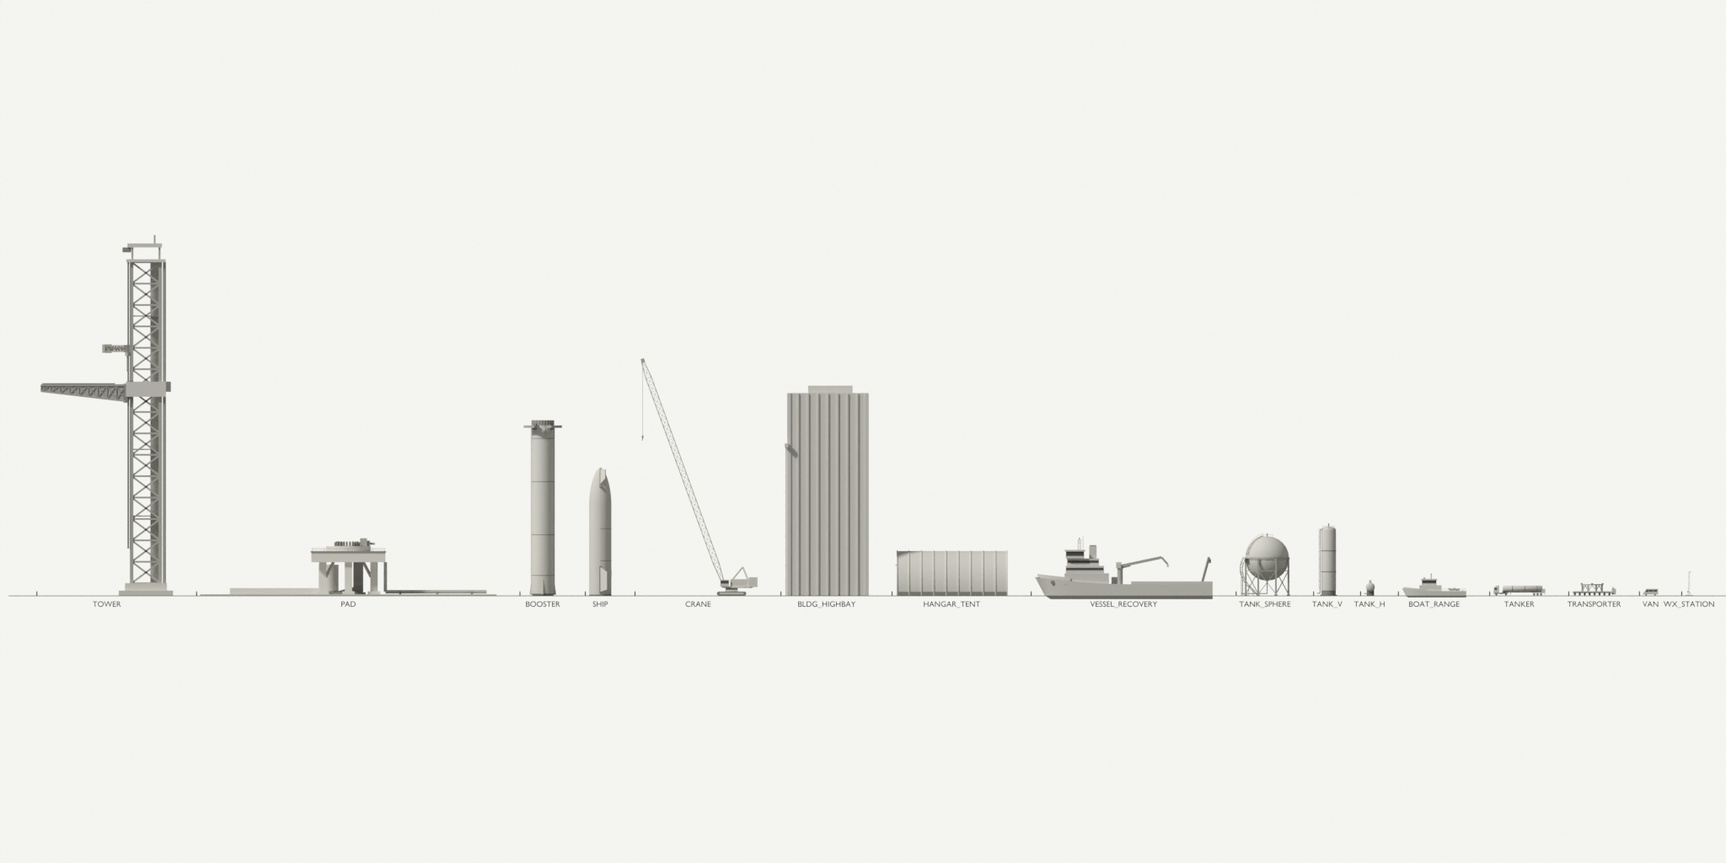
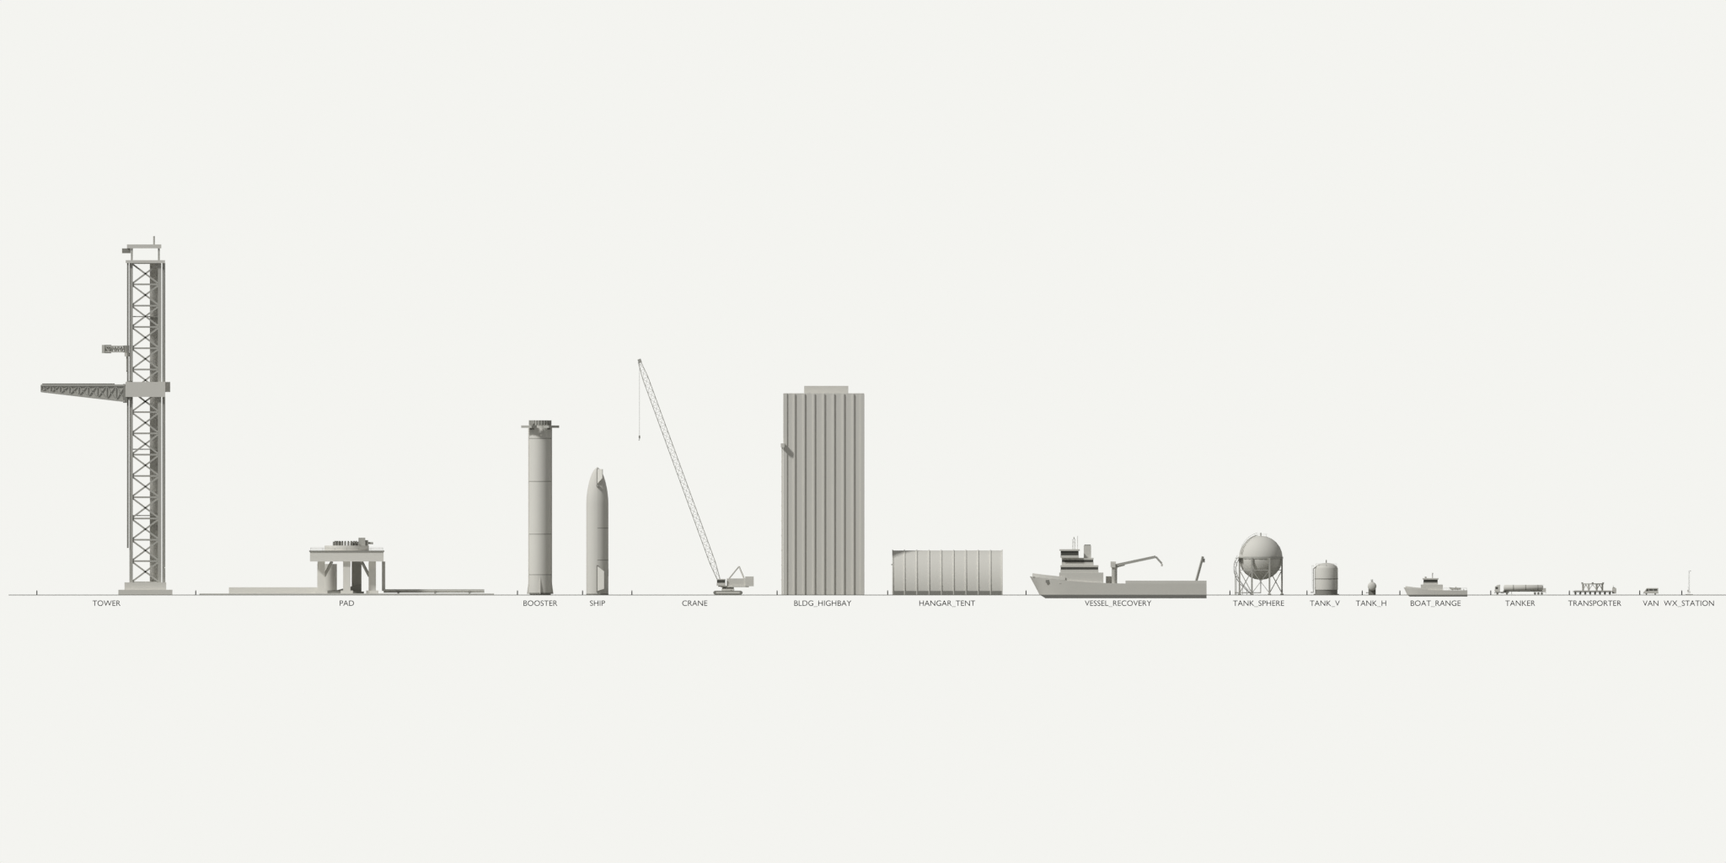
asset: MAT_Concrete for pad slab, wider TANK_V (5.6 follow-up)
Phase 5 review (5.6 notes): the PAD apron shared MAT_Clay with the mount and read as a grey plate, not the paved lot around it; TANK_V at 6 x 28 m read as a pole from the strategic camera. Adds a sixth shared material MAT_Concrete mapped to world.padConcrete (Blender materials, contract allow-list, render clay.ts with a same-token 0.15 self-lift so a sunlit slab matches the unlit terrain lots); PAD draw-call budget 6 -> 7. TANK_V rebuilt at 9.5 m diameter with the shell length derived from the old vessel volume (~721 m3; the sim uses BALANCING capacities), sockets kept at the same relative positions, 844/190 tris, 2 draw calls. Farm preview spacing widened; previews and lineup re-rendered.

Claude-Session: https://claude.ai/code/session_01MKuGrQT92puETiFgpRPtgR

diff --git a/src/render/materials/clay.ts b/src/render/materials/clay.ts
@@ -1,4 +1,4 @@
-// Token-driven replacements for the five GLB materials (ASSETS_GUIDE §5): one shared instance per `MAT_*` name
+// Token-driven replacements for the six GLB materials (ASSETS_GUIDE §5): one shared instance per `MAT_*` name
 // across every asset → one shader program each. Colors only from tokens (DESIGN_SYSTEM §2.4).
 import { tokens } from '@tokens/tokens';
 import { Color, MeshStandardMaterial } from 'three';
@@ -11,6 +11,8 @@ interface MatSpec {
   roughness: number;
   metalness: number;
   emissive?: string;
+  /** three default 1. */
+  emissiveIntensity?: number;
 }
 
 // MAT_Metal: the contract's metallic 0.3 renders dark without an environment map (no env in the clay look);
@@ -21,6 +23,16 @@ const SPECS: Record<string, MatSpec> = {
   MAT_Metal: { color: w.clayMetal, roughness: 0.6, metalness: 0 },
   MAT_Glass: { color: w.glass, roughness: 0.25, metalness: 0 },
   MAT_Accent: { color: w.exhaustGlow, roughness: 0.8, metalness: 0, emissive: w.exhaustGlow },
+  // Pad apron / paving: same token as the terrain's *unlit* concrete lots, lit matte so shadows still land on it.
+  // A faint self-lift in the same token (0.15) brings a sunlit up-facing slab level with the lot around it
+  // (≈ 218 → 234 sRGB in phase5-home) instead of reading as a grey plate; shadows stay ~2× darker.
+  MAT_Concrete: {
+    color: w.padConcrete,
+    roughness: 0.95,
+    metalness: 0,
+    emissive: w.padConcrete,
+    emissiveIntensity: 0.15,
+  },
 };
 
 const cache = new Map<string, MeshStandardMaterial>();
@@ -38,6 +50,7 @@ export function clayMaterial(name: string, side: Side): Material {
       side,
     });
     if (spec.emissive) m.emissive = new Color(spec.emissive);
+    if (spec.emissiveIntensity !== undefined) m.emissiveIntensity = spec.emissiveIntensity;
     m.name = name;
     cache.set(key, m);
   }

diff --git a/scripts/assets/contract.ts b/scripts/assets/contract.ts
@@ -78,7 +78,7 @@ export interface GlbSummary {
   bounds: { min: [number, number, number]; max: [number, number, number] };
 }
 
-export const MATERIALS = ['MAT_Clay', 'MAT_ClayDark', 'MAT_Metal', 'MAT_Glass', 'MAT_Accent'] as const;
+export const MATERIALS = ['MAT_Clay', 'MAT_ClayDark', 'MAT_Metal', 'MAT_Glass', 'MAT_Accent', 'MAT_Concrete'] as const;
 const NAME_RE = /^[A-Za-z0-9_]+$/;
 const KINDS: readonly string[] = ['rot', 'trans', 'spin'];
 const AXES: readonly string[] = ['x', 'y', 'z'];

diff --git a/blender/assets/tank_v.py b/blender/assets/tank_v.py
@@ -3,8 +3,11 @@
 Run:  blender -b --factory-startup -P blender/assets/tank_v.py -- --out build/models-raw/tank_v.glb \
           --preview docs/assets/tank_v.png
 
-Ø 6 × 28 m: plinth, 2 m skirt, cylindrical shell, 2:1 ellipsoidal head, two stiffener rings, top guard
-rail, caged ladder on the front (−Y), fill line down to a stub facing −Y, vent stack on the crown.
+Ø 9.5 × 13 m (5.11 rebuild; was Ø 6 × 28, which read as a pole from the strategic camera): plinth, 2 m
+skirt, cylindrical shell, 2:1 ellipsoidal head, one stiffener ring, crown guard rail, caged ladder on the
+front (−Y), fill line down to a stub facing −Y, vent stack on the crown. The shell length is derived so the
+vessel volume (shell + head above the skirt) equals the old Ø 6 × 28 tank's ≈ 721 m³ (the sim reads its
+capacities from BALANCING, not from geometry; this keeps the look honest).
 
 Instancing-ready (ASSETS_GUIDE §6): one leaf mesh `TANK_V_Body`, two materials (MAT_Clay shell,
 MAT_ClayDark details), no animated parts, origin at the plinth centre on the ground.
@@ -27,14 +30,18 @@ from lib.shapes import add_band, add_ladder, add_ring_railing  # noqa: E402
 ASSET = "TANK_V"
 VERSION = 1
 
-RADIUS = 3.0
-HEIGHT = 28.0  # crown of the head (vent stack adds 1.2 m)
 SKIRT = 2.0
 PLINTH = 0.3
+# Volume preserved from the original Ø 6 × 28 m design: shell (skirt → 26.5 m) + 2:1 head of radius 3.
+_R0, _H0 = 3.0, 28.0
+VOLUME = math.pi * _R0**2 * (_H0 - _R0 * 0.5 - SKIRT) + (2 / 3) * math.pi * _R0**2 * (_R0 * 0.5)  # ≈ 721 m³
+RADIUS = 4.75  # Ø 9.5 m
 HEAD = RADIUS * 0.5  # 2:1 ellipsoidal
-BODY_TOP = HEIGHT - HEAD
-STIFFENERS = (9.5, 18.0)
-FILL = Vector((1.4, -RADIUS - 0.55, 0.9))  # fill line foot (pipe centre), stub runs to −Y
+SHELL = (VOLUME - (2 / 3) * math.pi * RADIUS**2 * HEAD) / (math.pi * RADIUS**2)  # ≈ 8.59 m cylinder
+BODY_TOP = SKIRT + SHELL  # ≈ 10.59
+HEIGHT = BODY_TOP + HEAD  # crown of the head ≈ 12.96 (vent stack adds 1.2 m)
+STIFFENERS = (SKIRT + SHELL / 2,)
+FILL = Vector((RADIUS * 0.47, -RADIUS - 0.55, 0.9))  # fill line foot (pipe centre), stub runs to −Y
 FILL_END_Y = -RADIUS - 1.6
 VENT_TOP = HEIGHT + 1.2
 
@@ -45,10 +52,10 @@ CLAY, DARK = "MAT_Clay", "MAT_ClayDark"
 
 def build_body(lod: int) -> MeshBuilder:
     mb = MeshBuilder()
-    seg = pick(lod, 24, 12)
+    seg = pick(lod, 32, 16)
     steps = pick(lod, 4, 2)
     # Plinth + skirt.
-    mb.revolve([(RADIUS + 0.4, 0.0), (RADIUS + 0.4, PLINTH)], pick(lod, 12, 8), DARK, smooth=False, cap_top=True)
+    mb.revolve([(RADIUS + 0.4, 0.0), (RADIUS + 0.4, PLINTH)], pick(lod, 16, 8), DARK, smooth=False, cap_top=True)
     add_band(mb, (0, 0, 0), RADIUS * 0.96, PLINTH, SKIRT + 0.02, seg, DARK)
     # Shell + head (one surface of revolution, pole at the crown).
     prof = [(RADIUS, SKIRT), (RADIUS, BODY_TOP)]
@@ -71,8 +78,8 @@ def build_body(lod: int) -> MeshBuilder:
         # Crown guard rail on the head shoulder and the caged ladder on the front face.
         rail_z = BODY_TOP + HEAD * 0.42
         rail_r = RADIUS * math.cos(math.asin(0.42)) - 0.1
-        add_ring_railing(mb, (0, 0, 0), rail_r, rail_z, 12, DARK, height=1.0, section=0.07, posts=6)
-        add_ladder(mb, (-0.9, -RADIUS - 0.3, PLINTH), rail_z + 0.4, (0, -1, 0), DARK, rail=0.09)
+        add_ring_railing(mb, (0, 0, 0), rail_r, rail_z, 16, DARK, height=1.0, section=0.07, posts=8)
+        add_ladder(mb, (-RADIUS * 0.3, -RADIUS - 0.3, PLINTH), rail_z + 0.4, (0, -1, 0), DARK, rail=0.09)
     return mb
 
 

diff --git a/blender/assets/pad.py b/blender/assets/pad.py
@@ -63,7 +63,7 @@ REQUIRED_NODES = [
     "SOCKET_Deluge_03", "SOCKET_Deluge_04", "SOCKET_Label", "SOCKET_Focus",
 ]
 
-METAL, CLAY, DARK = "MAT_Metal", "MAT_Clay", "MAT_ClayDark"
+METAL, CLAY, DARK, CONCRETE = "MAT_Metal", "MAT_Clay", "MAT_ClayDark", "MAT_Concrete"
 
 
 def leg_positions():
@@ -77,12 +77,13 @@ def build_static(lod: int) -> MeshBuilder:
     mb = MeshBuilder()
     seg = pick(lod, 48, 24, 12)
     tw = TRENCH_W / 2
-    # Apron slab, split around the trench strip (x ∈ ±tw, y ∈ [TRENCH_Y1, TRENCH_Y0]).
+    # Apron slab (MAT_Concrete: reads as the paved lot, the mount stays MAT_Clay), split around the trench
+    # strip (x ∈ ±tw, y ∈ [TRENCH_Y1, TRENCH_Y0]).
     A = APRON_HALF
-    mb.box_minmax((-A, TRENCH_Y0, 0.0), (A, A, APRON_TOP), CLAY)
-    mb.box_minmax((-A, -A, 0.0), (A, TRENCH_Y1, APRON_TOP), CLAY)
-    mb.box_minmax((-A, TRENCH_Y1, 0.0), (-tw, TRENCH_Y0, APRON_TOP), CLAY)
-    mb.box_minmax((tw, TRENCH_Y1, 0.0), (A, TRENCH_Y0, APRON_TOP), CLAY)
+    mb.box_minmax((-A, TRENCH_Y0, 0.0), (A, A, APRON_TOP), CONCRETE)
+    mb.box_minmax((-A, -A, 0.0), (A, TRENCH_Y1, APRON_TOP), CONCRETE)
+    mb.box_minmax((-A, TRENCH_Y1, 0.0), (-tw, TRENCH_Y0, APRON_TOP), CONCRETE)
+    mb.box_minmax((tw, TRENCH_Y1, 0.0), (A, TRENCH_Y0, APRON_TOP), CONCRETE)
     # Trench: dark floor at grade between two berm walls (stays visible above any terrain at z = 0).
     floor = TRENCH_FLOOR
     mb.box_minmax((-tw, TRENCH_Y1, 0.0), (tw, TRENCH_Y0, floor), DARK, faces="top")

diff --git a/blender/lib/materials.py b/blender/lib/materials.py
@@ -18,6 +18,8 @@ MATERIAL_TOKENS = {
     "MAT_Metal": ("world", "clayMetal", 0.6, 0.3),
     "MAT_Glass": ("world", "glass", 0.25, 0.0),
     "MAT_Accent": ("color", "accent", 0.8, 0.0),
+    # Ground-level concrete (pad apron, lots): lighter than MAT_Clay so slabs read as paving, not structure.
+    "MAT_Concrete": ("world", "padConcrete", 0.95, 0.0),
 }
 MATERIAL_NAMES = tuple(MATERIAL_TOKENS)
 
@@ -52,7 +54,7 @@ def _principled(mat):
 
 
 def materials_from_tokens(tokens_path=None) -> dict:
-    """Create (or reuse) the five shared materials. Returns {name: Material}."""
+    """Create (or reuse) the six shared materials. Returns {name: Material}."""
     mats = {}
     for name, (group, key, rough, metal) in MATERIAL_TOKENS.items():
         mat = bpy.data.materials.get(name) or bpy.data.materials.new(name)

diff --git a/blender/scenes/farm.py b/blender/scenes/farm.py
@@ -26,7 +26,7 @@ RAW = REPO_ROOT / "build" / "models-raw"
 
 # (asset file, root name, (x, y), heading deg (rotation about +Z), pose {node: (attr, value)})
 LAYOUT = [
-    *[("tank_v", "TANK_V", (x, y), 0.0, {}) for x in (-34.0, -25.0, -16.0) for y in (14.0, 23.0)],
+    *[("tank_v", "TANK_V", (x, y), 0.0, {}) for x in (-45.0, -32.0, -19.0) for y in (12.0, 25.0)],
     ("tank_sphere", "TANK_SPHERE", (4.0, 22.0), 0.0, {}),
     *[("tank_h", "TANK_H", (-25.0, y), 0.0, {}) for y in (-4.0, -10.0, -16.0, -22.0)],
     ("tanker", "TANKER", (8.0, -6.0), 90.0, {"TANKER_Trailer": ("rz", -15.0), "TANKER_Steer": ("rz", -10.0)}),

diff --git a/docs/ASSETS_GUIDE.md b/docs/ASSETS_GUIDE.md
@@ -33,7 +33,7 @@ Vehicle class: large fully reusable two-stage methane/LOX rocket, tower-caught b
 | `PAD` | apron 120 × 120 × 0.5; mount 30 × 30 × 20 | Launch mount: 6 legs (hexagon r 12, none on ±Y), table 13.5–18 m, ring OD 18 / ID 9.5 m with its top (deck) at 20 m. Flame trench toward −Y (front), 10 m wide, floor at grade between 3 m berms (a below-grade cut is hidden by the terrain plane). | MVP |
 | `BOOSTER` | Ø 9 × 71 | 33 engines (3 + 10 inner gimballed, 20 outer fixed), 4 grid fins (6 m chord × 3 m span, horizontal lattice) hinged at 68.4 m — above the catch arms, ±30° never reaches them —, 2 catch pins at 66 m (pin lower face = contact plane), hot-stage ring 69–71 m. | MVP |
 | `SHIP` | Ø 9 × 52 | Barrel 0–37 m, blunted nose 37–52 m. 6 engines (3 SL gimballed on r 1.3, 3 vac fixed on r 3.25), 2 fore flaps (6.2 m root along the nose line × 3 m, hinges 45.2–51 m), 2 aft flaps (10 × 4 m, hinges 1.5–11.5 m), 2 lift pins at 44 m (just below the fore flaps), heat shield on the −Y half (belly, `MAT_Clay` — see §4 SHIP), QD plate at 9 m on the leeward side. | MVP |
-| `TANK_V` | Ø 6 × 28 | Vertical cryo tank, 2 m skirt, ellipsoidal head, ladder cage. Variant Ø 4.5 × 20. | MVP |
+| `TANK_V` | Ø 9.5 × 13 (crown 12.96, vent 14.2) | Vertical cryo tank, 2 m skirt, 8.59 m shell, 2:1 ellipsoidal head, ladder cage. Rebuilt 5.11 from Ø 6 × 28 for **strategic-camera readability, volume preserved** (≈ 721 m³ above the skirt; the sim uses BALANCING capacities, not geometry). Variant Ø 4.5 × 20 (to be re-proportioned the same way when built). | MVP |
 | `TANK_H` | 22 × Ø 3.6 (top at 5.2) | Horizontal tank on 2 saddles. | MVP |
 | `TANK_SPHERE` | Ø 18, top at 24 | Sphere on 8 legs, equatorial ring, stair. | MVP |
 | `TANKER` | 21 × 2.6 × 4.0 | Tractor 7 m + cryo trailer 14 m, 5 axles, articulated at the fifth wheel. | MVP |
@@ -91,6 +91,8 @@ Why the QD hinge moved off the front face (Phase 4): stowed across the front fac
 
 As built (4.4): one rigid `rot` cannot move 20 clamps "outwards", so `PAD_Clamps` is a single `trans` (one draw call instead of 20 animated nodes). Draw calls 6 = `PAD_Static` × 3 materials + BQD × 2 + clamps × 1.
 
+As built (5.11): the 120 × 120 m apron slab is **`MAT_Concrete`** (token `padConcrete`, same as the terrain's concrete lots) while the mount, legs, ring, trench berms and deluge tank stay `MAT_Clay`: with one shared clay the apron read as part of the structure instead of a paved lot (5.6 notes). Draw calls 7 (LOD0/1; LOD2 5) = `PAD_Static` × 4 materials + BQD × 2 + clamps × 1; budget raised 6 → 7 (class cap 10).
+
 ### BOOSTER
 `BOOSTER_Static` (body, chines, raceways, hot-stage ring, catch pins, outer 20 engines); `BOOSTER_EnginesGimbal` (empty at gimbal plane z = 2.5, `rot x` ±8°, pitch) → `BOOSTER_EnginesGimbalYaw` (empty at the same point, `rot z` ±8°, yaw) → `BOOSTER_EnginesInner` (13 engines) + `SOCKET_Engine_01..13`; `BOOSTER_GridFinMount_01..04` (static empties on the hull at 45°/135°/225°/315°, z 68.4, local +X radial) → `BOOSTER_GridFin_01..04` (`rot x` = about the radial axis, ±30°, rest 0, identity rest rotation) → `BOOSTER_GridFinGeo_01..04` (linked duplicates). Landing legs: **none** (tower catch).
 Sockets: `SOCKET_Exhaust` (engine plane center, pointing down), `SOCKET_Engine_01..33` (each bell exit, pointing down; 01–03 center, 04–13 inner ring — children of the yaw gimbal so plumes follow it —, 14–33 outer ring; extras `fx_ring` = inner|outer — lets the renderer drop a plume on engine-out), `SOCKET_CatchPinL/R` ((±5.4, 0, 66), the pin's lower face; coincides with tower `SOCKET_CatchPointL/R` when the booster sits on the mount and the carriage is at 86 m), `SOCKET_ShipMount` ((0, 0, 71) top of the hot-stage ring = SHIP origin), `SOCKET_BQD` ((0, 4.5, 1.6) on the skirt, +Z toward +Y = the pad BQD hood), `SOCKET_Label` (z 74), `SOCKET_Focus` (z 35).
@@ -109,6 +111,7 @@ As built (4.6 rebuild): heat shield and flaps are **`MAT_Clay`** like the hull (
 ### TANK_V / TANK_H / TANK_SPHERE (instancing-friendly)
 Single leaf mesh `<ASSET>_Body` (≤ 2 materials), no animated parts. Sockets: `SOCKET_Fill` (pipe connection, faces −Y), `SOCKET_Vent` (boil-off steam, +Z up), `SOCKET_Label`, `SOCKET_Focus`.
 As built (4.5): `MAT_Clay` shell + `MAT_ClayDark` details (`TANK_SPHERE`: `MAT_Metal` legs/stairs), 2 LODs (LOD1 drops ladders, rails, stiffeners). One GLB per class → one `InstancedMesh` per class and LOD in the farm. The Ø 4.5 × 20 `TANK_V` variant is not built yet (no placement uses it).
+As rebuilt (5.11): `TANK_V` is Ø 9.5 m; the shell length is derived in `tank_v.py` from the Ø 6 × 28 vessel volume, so the tank reads as a squat cryo tank, not a pole, from the strategic camera. Sockets keep their relative placement: `SOCKET_Fill` at (0.47 R, −R − 1.6, 0.9) facing −Y, `SOCKET_Vent` on the crown (z 14.16), `SOCKET_Label` vent + 3 m, `SOCKET_Focus` at half the crown height. One stiffener ring at mid-shell (was two), 32/16 segments for the wider silhouette; still one leaf mesh × 2 materials. Farm spacing (site-lc1: 30 m centres, 80 m rows) clears the 10.3 m plinth.
 
 ### TANKER
 `TANKER_Tractor` (empty) → `TANKER_TractorGeo`, `TANKER_Axle_01..02` (`spin x`), `TANKER_Steer` (front axle, `rot y` ±35°); `TANKER_Trailer` (empty at fifth wheel, `rot y` ±70°) → `TANKER_TrailerGeo`, `TANKER_Axle_03..05`. Sockets: `SOCKET_Hose` (trailer rear valve box), `SOCKET_Label`, `SOCKET_Focus`.
@@ -140,7 +143,7 @@ As built (4.6): **`BLDG_HIGHBAY` doors are two bi-parting sliding leaves**, not 
 
 ## 5. Material contract
 
-Only these five shared materials may exist in a GLB. Colors come from the design-token export (`materials_from_tokens()` reads it; no hex literal in asset scripts). Proposed mapping — final token names belong to `docs/DESIGN_SYSTEM.md`:
+Only these six shared materials may exist in a GLB. Colors come from the design-token export (`materials_from_tokens()` reads it; no hex literal in asset scripts). Proposed mapping — final token names belong to `docs/DESIGN_SYSTEM.md`:
 
 | Material | Token (proposed) | ≈ sRGB | Roughness | Metallic | Use |
 |---|---|---|---|---|---|
@@ -149,10 +152,11 @@ Only these five shared materials may exist in a GLB. Colors come from the design
 | `MAT_Metal` | `clay.metal` | `#CFCFCB` | 0.6 | 0.3 | lattices, rails, piping. Metallic kept ≤ 0.3: without an env map, three renders metals dark |
 | `MAT_Glass` | `ink.glass` | neutral grey ≈ `#8E8E8A` | 0.25 | 0 | windows, bridge glazing. **Opaque**, no transmission. (The template's `#9DA3A6` is slightly blue — replace by a neutral ink token: one hue only.) |
 | `MAT_Accent` | `accent` | `#FF5A1F` | 0.8 | 0 | see below |
+| `MAT_Concrete` | `world.padConcrete` | `#EFEEE9` | 0.95 | 0 | ground-level paving only: pad apron/deck slabs, roads, lots (5.11). Lighter than `MAT_Clay` so slabs read as concrete; lit (shadows land on it); render side (`src/render/materials/clay.ts`) adds a 0.15 self-lift in the same token so a sunlit slab matches the terrain's unlit concrete lots |
 
 - Colors are converted sRGB → linear in Blender (`hex_to_linear`); glTF stores linear factors; three's GLTFLoader reads them correctly with sRGB output.
 - **`MAT_Accent` on models is the exception**: orange means thrust, selection, alerts, hazard/recovery zones, which are runtime states. MVP assets ship with **no** `MAT_Accent`. Allowed only on assets whose sole purpose is a hazard/signal marker (e.g. later `PROP_HazardBuoy`), after design review. Parts that may turn orange at runtime (engine bells, selection) are separate nodes so the renderer can swap their material.
-- Keep the five materials **numerically distinct**: `gltf-transform dedup` merges identical materials and keeps only one name (verified).
+- Keep the six materials **numerically distinct**: `gltf-transform dedup` merges identical materials and keeps only one name (verified).
 - Render code dedupes materials by name across all GLBs (one shader program per `MAT_*`) and may replace them with its own token-driven materials.
 - No textures, no UVs exported (`export_texcoords=False`), no vertex colors by default.
 - **Baked AO policy**: off in MVP. If ARCHITECTURE rejects screen-space AO for budget reasons, bake Cycles AO into `COLOR_0` (vertex color, single channel replicated) for large static structures only (`TOWER_Static`, `PAD_Static`, buildings), multiplied in the shader. Never on instanced assets.
@@ -183,7 +187,7 @@ Triangles after export; GLB size after optimization (meshopt ≈ 7–10 B/tri). 
 | Class | LOD0 tris | LOD1 | LOD2 | GLB LOD0 | Draw calls |
 |---|---|---|---|---|---|
 | TOWER | 40 k | 12 k | 3 k | ≤ 500 KB | ≤ 10 |
-| PAD | 15 k | 5 k | 1 k | ≤ 200 KB | ≤ 6 |
+| PAD | 15 k | 5 k | 1 k | ≤ 200 KB | ≤ 7 |
 | BOOSTER | 20 k | 6 k | 1.5 k | ≤ 250 KB | ≤ 10 |
 | SHIP | 15 k | 5 k | 1 k | ≤ 200 KB | ≤ 10 |
 | TANK_V / TANK_H / TANK_SPHERE | 1.5 k / 1.2 k / 2.5 k | 400 / 300 / 600 | — | ≤ 40 KB | ≤ 2 |
@@ -331,10 +335,10 @@ As built (Phase 4.1): geometry goes through `mesh.MeshBuilder` (vertex/face list
 | Asset | Script / contract | LOD0 / LOD1 / LOD2 tris | GLB LOD0 / LOD1 / LOD2 | Draw calls | Nodes / sockets | Preview |
 |---|---|---|---|---|---|---|
 | `TOWER` | `tower.py` · `tower.contract.json` | 4 084 / 2 486 / 370 | 67 / 45 / 14 KB | 9 | 17 (9 contract nodes, 7 sockets) | `docs/assets/tower.png`, turntable ×12 |
-| `PAD` | `pad.py` · `pad.contract.json` | 1 970 / 1 004 / 562 | 29 / 19 / 14 KB (rebuilt 4.6, winding fix) | 6 | 14 (5 contract nodes, 8 sockets) | `docs/assets/pad.png`, `docs/assets/_stack.png` |
+| `PAD` | `pad.py` · `pad.contract.json` | 1 970 / 1 004 / 562 | 30 / 20 / 15 KB (5.11 `MAT_Concrete` apron) | 7 | 14 (5 contract nodes, 8 sockets) | `docs/assets/pad.png`, `docs/assets/_stack.png` |
 | `BOOSTER` | `booster.py` · `booster.contract.json` | 6 952 / 2 608 / 756 | 58 / 33 / 19 KB | 8 | 57 (8 contract nodes, 39 sockets) | `docs/assets/booster.png`, `docs/assets/_stack.png` |
 | `SHIP` | `ship.py` · `ship.contract.json` | 2 582 / 912 / 276 | 27 / 18 / 13 KB | 8 | 29 (12 contract nodes, 12 sockets) | `docs/assets/ship.png`, `docs/assets/_stack.png` |
-| `TANK_V` | `tank_v.py` · `tank_v.contract.json` | 848 / 162 | 12.3 / 5.2 KB | 2 | 6 (`TANK_V_Body`, 4 sockets) | `docs/assets/tank_v.png` |
+| `TANK_V` | `tank_v.py` · `tank_v.contract.json` | 844 / 190 (5.11 Ø 9.5) | 12.3 / 5.4 KB | 2 | 6 (`TANK_V_Body`, 4 sockets) | `docs/assets/tank_v.png` |
 | `TANK_H` | `tank_h.py` · `tank_h.contract.json` | 602 / 200 | 9.2 / 5.5 KB | 2 | 6 (`TANK_H_Body`, 4 sockets) | `docs/assets/tank_h.png` |
 | `TANK_SPHERE` | `tank_sphere.py` · `tank_sphere.contract.json` | 1 732 / 378 | 24.3 / 8.1 KB | 2 | 6 (`TANK_SPHERE_Body`, 4 sockets) | `docs/assets/tank_sphere.png` |
 | `TANKER` | `tanker.py` · `tanker.contract.json` | 1 496 / 653 | 16.7 / 13.6 KB | 6 (instanced) | axles shared (`instanceLinked`) | `docs/assets/tanker.png`, `docs/assets/_farm.png` |

diff --git a/docs/TASKS.md b/docs/TASKS.md
@@ -63,6 +63,7 @@ Legend: `[ ]` todo · `[~]` in progress · `[x]` done · **owner** · ← depend
 - [x] 5.7 Post: single EffectPass (SMAA + halftone/dither); `freezeVisuals` — ← 5.1
 - [x] 5.8 `window.__fuelx` debug hooks (ARCHITECTURE §9) + first visual baselines — **qa-perf** ← 5.2
 - [x] 5.9 `perf-audit` on the 3 reference scenes — **qa-perf** ← 5.3–5.7 · done: `tests/e2e/scenes.perf.ts` (opt-in `perf` project, `npm run perf -- --browser`) on the production build — terminal count / liftoff at LC-1, ascent following B-09, SP-41 rollout: main ≤ 47 / shadow ≤ 35 draw calls, ≤ 15 k triangles, point cloud 297.7 k (99 % of 300 k), ≤ 13.8 k FX sprites, ≤ 16 programs, all within §13.1 (`budget.json` `scene` rows added); `stats()` gains `mainDrawCalls`/`shadowDrawCalls`. Game initial JS **452.6 → 386.0 KB gz**: `postprocessing` (62.9 KB gz) + `post/pipeline` now a lazy chunk, `isReady()` waits for it. Flaky `scene.e2e` › debug hooks fixed by a serial `scene` Playwright project (two green full runs). Review fixes: pool instance uploads limited to live instances, dead `VitrineStage.tsx` removed. Gate screens re-taken (QA.md list). Numbers: QA.md "Phase 5 perf-audit". **Open (ranked)**: *M1* snapshot + anim writers run every sim tick (`src/app/sim-host/inline.ts:93`) ≈ 15 µs/tick in Node, 3–4× the sim, not covered by `sim-bench` (≈ 1 ms/frame at 100×, budget 4 ms) — add a host-tick row to the bench, then write only the last two ticks per batch (AnimWriter integrates per tick, so needs a dt-aware pass) — **systems-architect / three-graphics-engineer**; *L1* point cloud at 99 % of budget — no density increase without trading levels; *L2* `CameraRig` allocates per frame while following (`stackOf` array `CameraRig.tsx:133`, orbit object spreads `:222–234`) — scratch objects; *L3* `stats().simUsPerTick` is a mean of per-advance ratios (`inline.ts:102`), meaningless under the 100 µs clock clamp — use total µs / total steps; *L4* `Game.isHidden` reads the flags with a magic `+ 7` (`src/app/game.ts:54`) — use a named slot offset from `render/snapshot`.
+- [x] 5.11 pad concrete material + TANK_V proportions — done — **blender-technical-artist** · 5.6 follow-up: new shared slot `MAT_Concrete` (`world.padConcrete`, roughness 0.95; Blender `materials.py`, `contract.ts` MATERIALS, `materials/clay.ts` with a 0.15 same-token self-lift) on the PAD apron slab (PAD draw calls 6 → 7); `TANK_V` rebuilt Ø 9.5 × 12.96 m (crown; shell 8.59 m derived from the Ø 6 × 28 volume ≈ 721 m³), 844 / 190 tris, 2 draw calls. Screen `docs/screens/phase5-home-after-materials.png`
 - [x] ⛳ **Gate 5** approved — screenshots: terminal count, ascent follow, catch
 
 ## Phase 6 — HUD

diff --git a/docs/DESIGN_SYSTEM.md b/docs/DESIGN_SYSTEM.md
@@ -106,7 +106,7 @@ CSS: `--fx-state-<state>-bg|-fg|-border|-glyph`; TS: `tokens.state.<state>.{bg,f
 | `--fx-3d-sea-points` | `tokens.world.seaPoints` | `#FBFBF8` | Sea point cloud / foam |
 | `--fx-3d-ground-base` | `tokens.world.groundBase` | `#E3E1DB` | Ground under points |
 | `--fx-3d-ground-points` | `tokens.world.groundPoints` | `#C4C3BC` | Scrub dots (darker = vegetation) |
-| `--fx-3d-pad-concrete` | `tokens.world.padConcrete` | `#EFEEE9` | Pads, roads (lighter than ground) |
+| `--fx-3d-pad-concrete` | `tokens.world.padConcrete` | `#EFEEE9` | Pads, roads, terrain concrete lots (lighter than ground); `MAT_Concrete` base — pad apron slab (5.11) |
 | `--fx-3d-exhaust-core` | `tokens.world.exhaustCore` | `#FFE1D2` (= accent-tint) | Hot core particles (additive) |
 | `--fx-3d-exhaust-glow` | `tokens.world.exhaustGlow` | `#FF5A1F` (= accent) | Plume body/glow (`MAT_Accent` emissive) |
 | `--fx-3d-steam` | `tokens.world.steam` | `#FBFBF8` | Deluge steam, foam |
